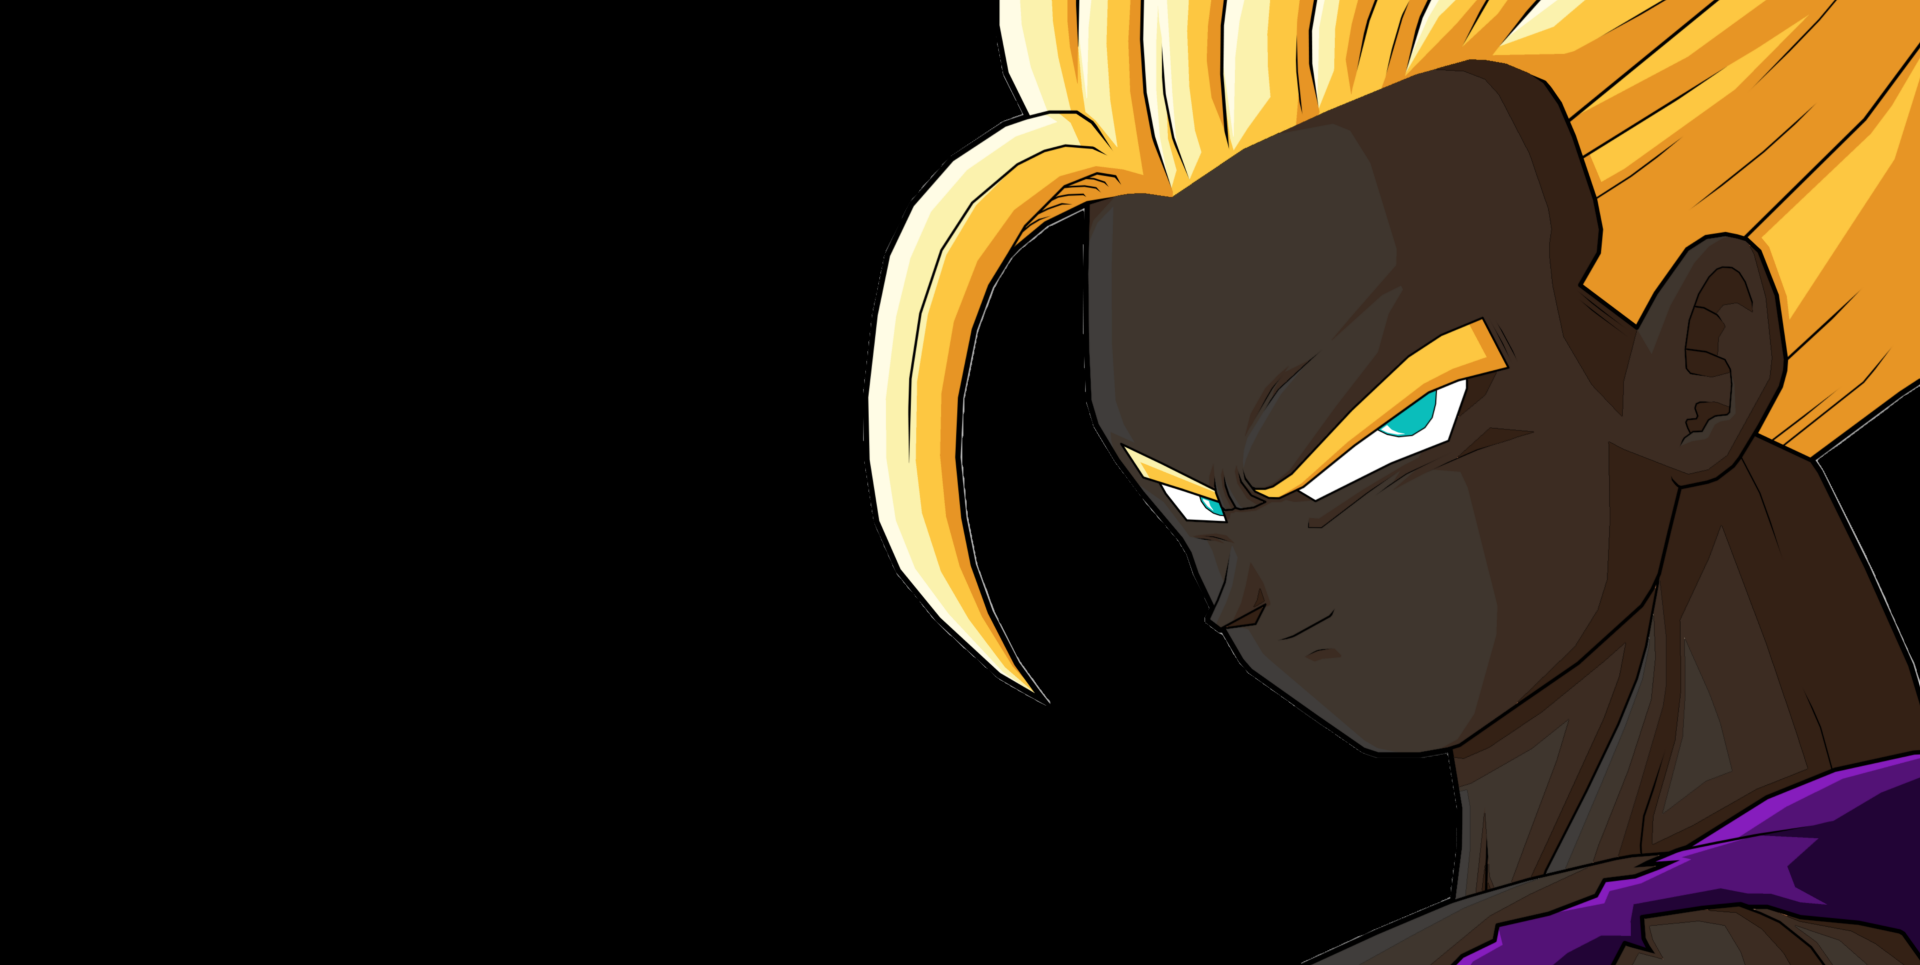
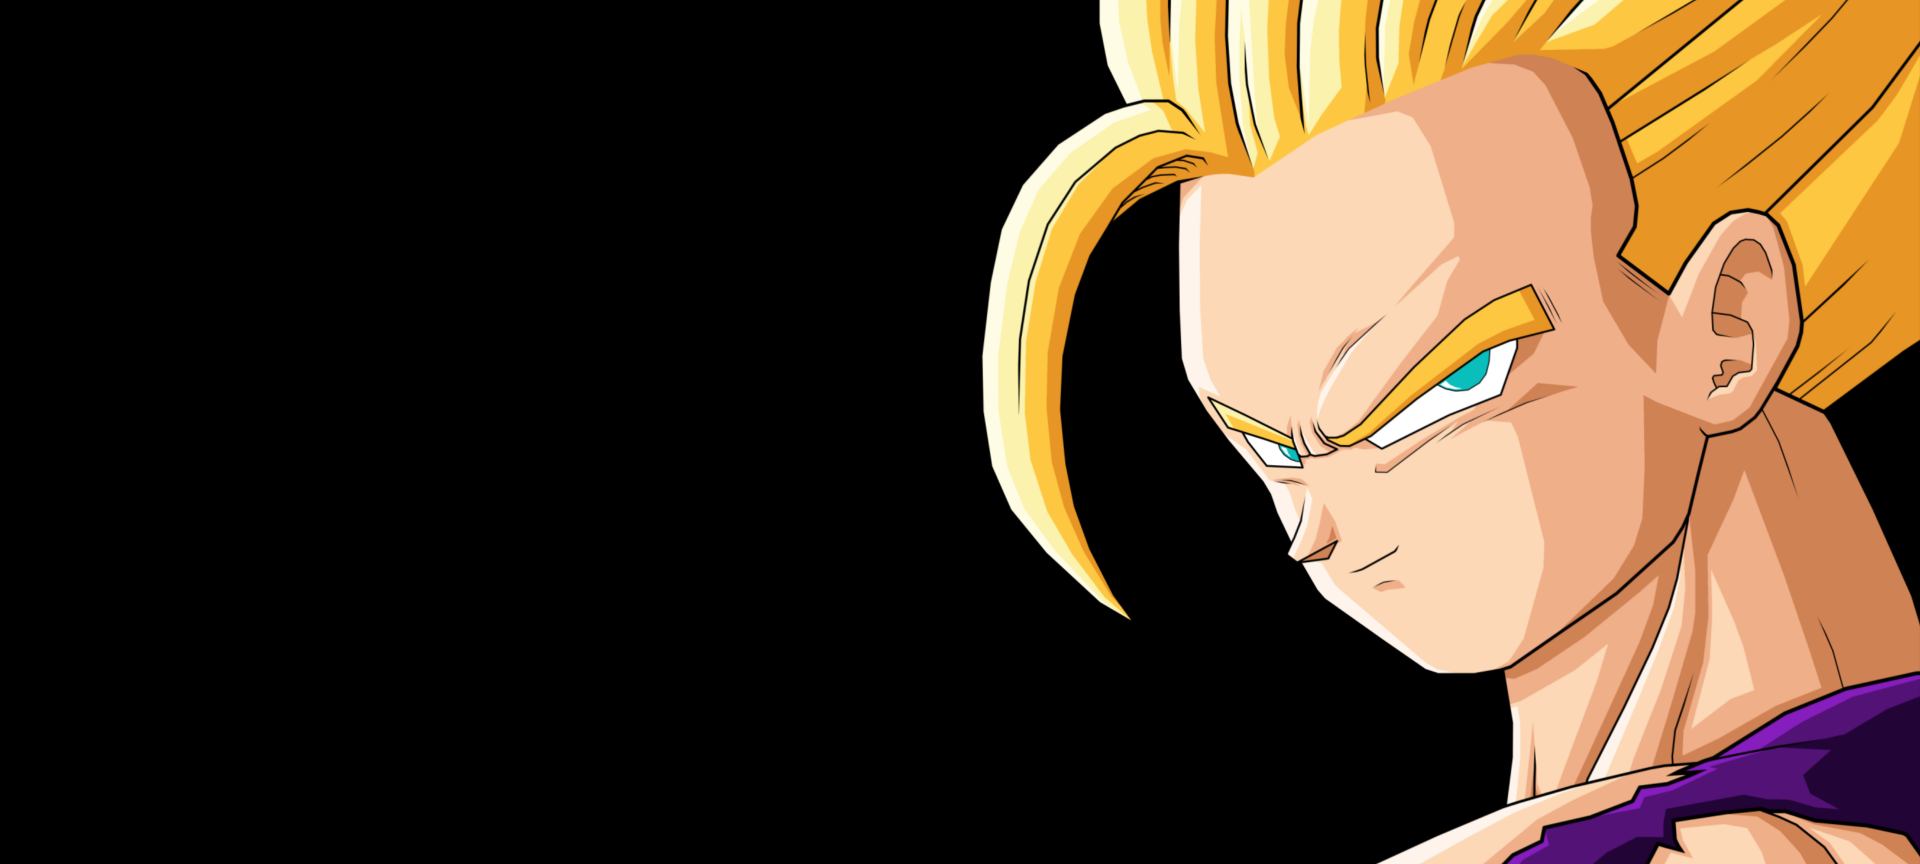
Gohan audio visual

diff --git a/java/src/C18339746/MyVisualTest.java b/java/src/C18339746/MyVisualTest.java
@@ -13,12 +13,12 @@ public class MyVisualTest extends PApplet
 	BeatDetect beat;
 	int r = 200;
 	float rad = 70;
-	PImage IMG;
+	PImage DB;
 
 	public void settings()
 	{
-		size(1920, 966);
-		IMG = loadImage("Gohan.png");
+		size(1559, 700);
+		DB = loadImage("Silhouette.png");
 	}
 
 	public void setup() {
@@ -27,14 +27,14 @@ public class MyVisualTest extends PApplet
 		meta = Music.getMetaData();
 		beat = new BeatDetect();
         Music.loop();
-        background(IMG);
+        background(DB);
 	}
 
 	
 	public void draw() {
-		// Centre Visual
+        	
 		beat.detect(Music.mix);
-		image(IMG,0,0);
+		image(DB,0,0);
 		noStroke();
 		rect(0, 0, width, height);
 		translate(width/2, height/2);
@@ -60,7 +60,7 @@ public class MyVisualTest extends PApplet
 			stroke(random(0,255),random(0,255),random(0,255));
 			line(x, y, x2, y2);
 		}
-
+	
 		beginShape();
 		noFill();
 		stroke(-1, 50);
@@ -77,12 +77,12 @@ public class MyVisualTest extends PApplet
 			point(x2, y2);
 			popStyle();
 		}
-		endShape();
-		if (flag){
+    	endShape();
+    	if (flag){
 			showMeta();
 		}
 	}
-			
+		
 	void showMeta() 
 	{
 		int time =  meta.length();
@@ -92,7 +92,7 @@ public class MyVisualTest extends PApplet
 		fill(0);
 		text( (int)(time/1000-millis()/1000)/60 + ":"+ (time/1000-millis()/1000)%60, -7, 21);	
 	}
-
+	
 	boolean flag =false;
 
 	public void mousePressed()
@@ -101,10 +101,10 @@ public class MyVisualTest extends PApplet
 	}
 
 	public void keyPressed() 
+	{
+		if (key == 'e')
 		{
-			if (key == 'e')
-			{
-				exit();
-			}
+			exit();
 		}
 	}
+}

diff --git a/java/src/ie/tudublin/Main.java b/java/src/ie/tudublin/Main.java
@@ -12,7 +12,7 @@ public class Main
 	public void startUI()
 	{
 		String[] a = {"MAIN"};
-        processing.core.PApplet.runSketch( a, new Lightning());
+		processing.core.PApplet.runSketch( a, new MyVisualTest());
 		
 	}
 
